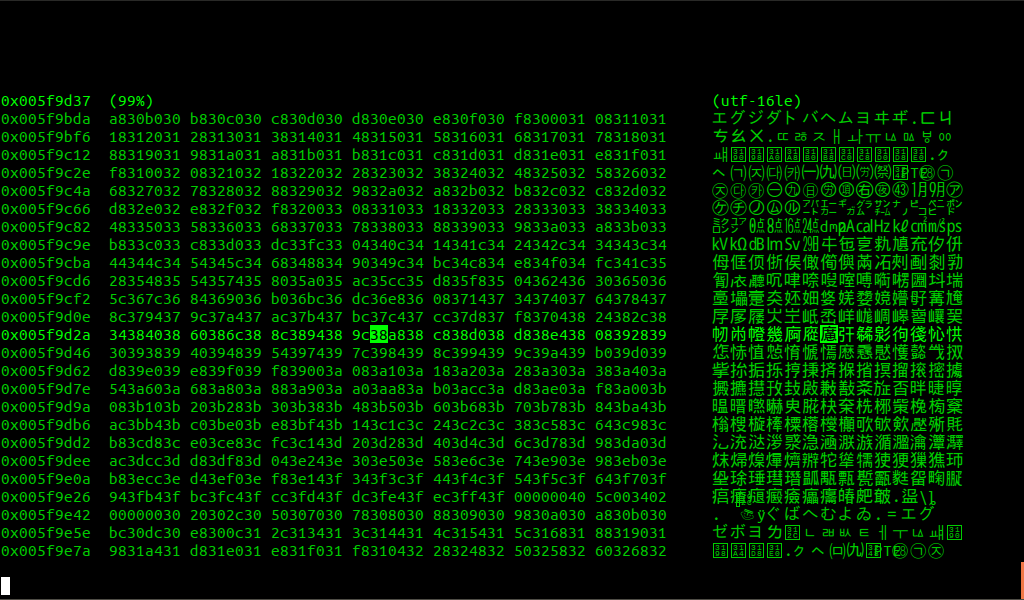
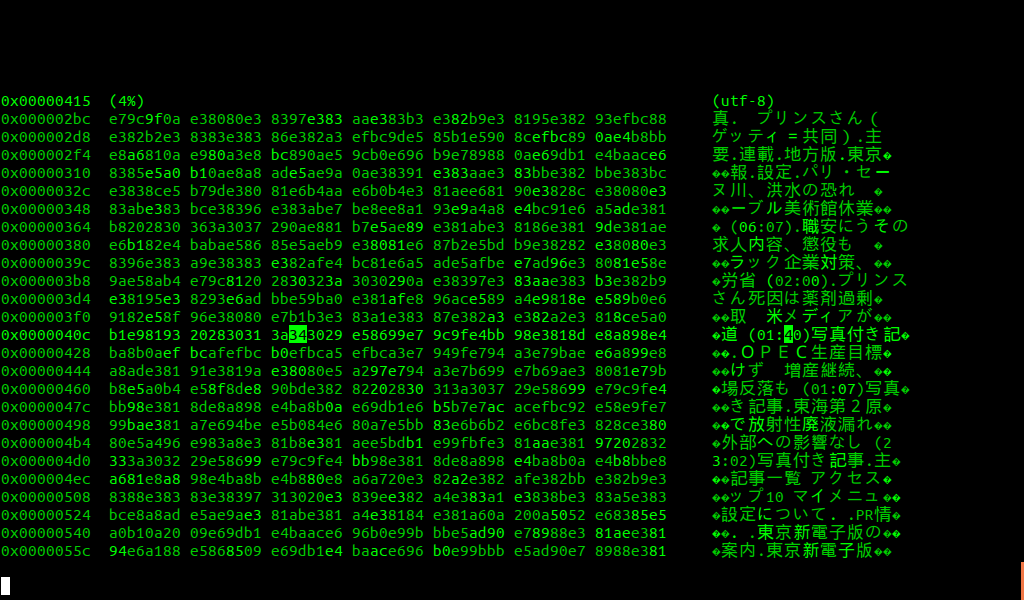
matrix mode

Changed region(s): [[0.0312, 0.15, 0.6562, 0.93], [0.6875, 0.15, 0.9375, 0.93], [0.0, 0.99, 1.0, 1.0]]

diff --git a/README.md b/README.md
@@ -1,13 +1,13 @@
 uhexed
 ======
 
-Simple terminal multi-byte hex editor / hexdump.
+Simple terminal unicode hex editor / hexdump.
 
 Usage: uhexed [-e encoding] binary_file
 
 Type 'h' for key help
 
-Encoding can be pretty much any encoding that perl supports.
+Encoding can be pretty much anything that perl supports.
 For BOM-type encodings you must specify byte order explicitly (so utf-16le or utf-16be for utf-16).
 
 Tested so far:
@@ -17,7 +17,10 @@ Tested so far:
 - utf-8
 - iso-8859-1
 
+Matrix mode screenshot:
+
 ![Screenshot](https://raw.githubusercontent.com/lemonsqueeze/uhexed/master/screenshot.png)
+
 
 Bugs
 ----
